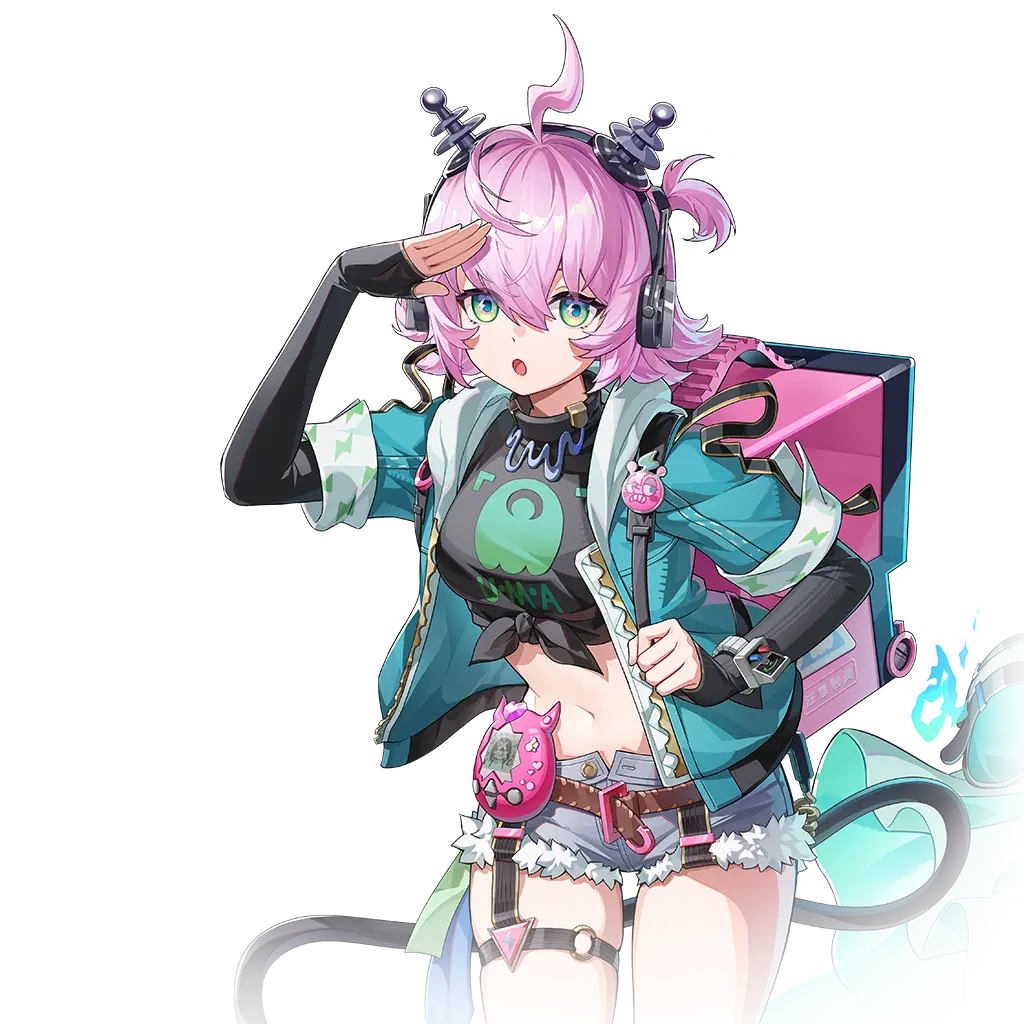
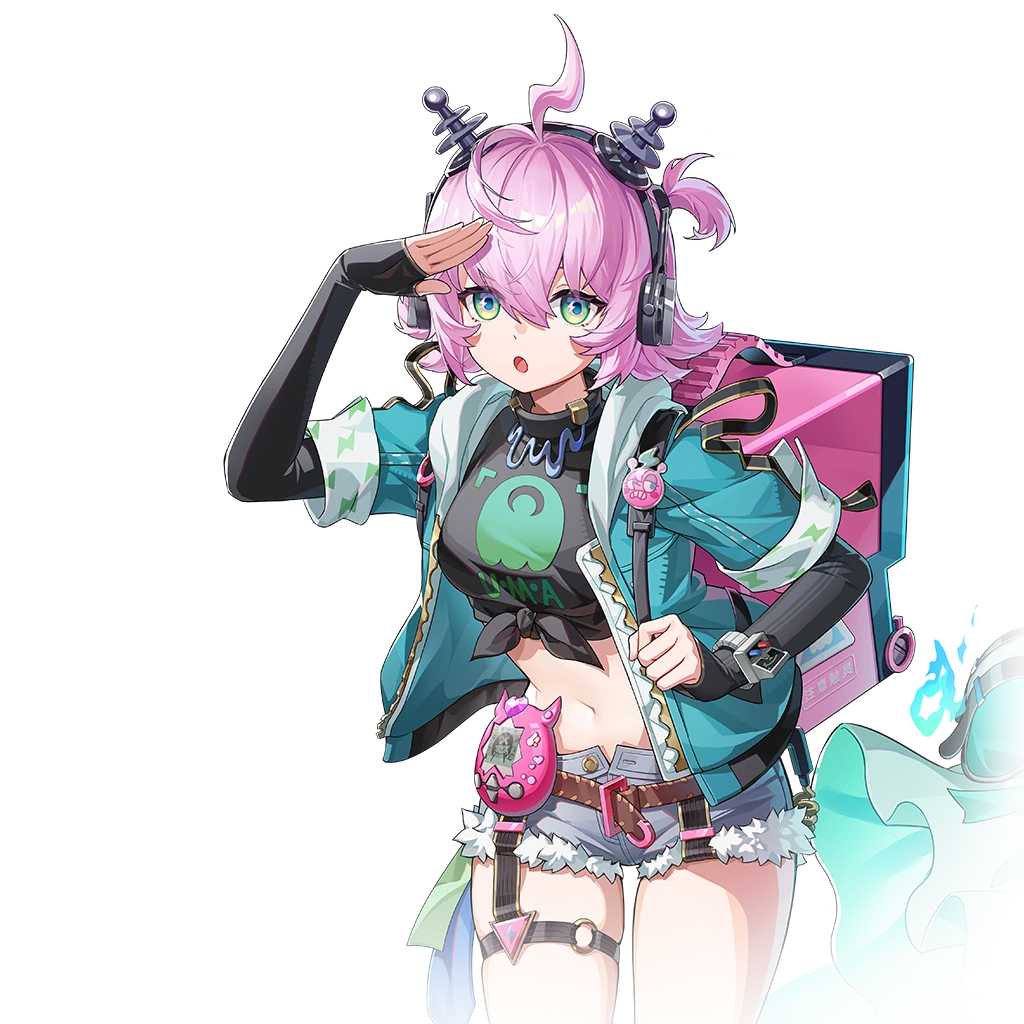
chore(assets): update Lingke portrait from current NTEData

Changed region(s): [[0.2188, 0.0, 1.0, 1.0]]

diff --git a/app/modules/card_game/static/js/v2_api.js b/app/modules/card_game/static/js/v2_api.js
@@ -42,7 +42,7 @@
     Q07: { characterId: 'xiaozhi', fashion: 'Fashion_1073_1' },
     Q08: { characterId: 'xiaozhi', fashion: 'Fashion_1073_nighty' },
   };
-  const CHARACTER_IMAGE_VERSION = 'everness-restored-costumes-v4';
+  const CHARACTER_IMAGE_VERSION = 'ntedata-lingke-20261008-v5';
 
   // Server-provided identity/assets are authoritative; the static table only
   // supports old snapshots. Do not cache mutable combat stats across sides.

diff --git a/docs/character-image-assets.md b/docs/character-image-assets.md
@@ -153,3 +153,12 @@ with Image.open('/tmp/nte-character-source.png') as source:
 使用的内置工具提示词：
 
 > Use case: background-extraction. Edit target: supplied NTEData UI_YH_Archive_FileImages_50.png. Asset: transparent character cutout for the 鬼郎丸 card portrait in a game. Extract ONLY the existing black dog-like creature with red ears, red long tongue, red curled wrapping/tail and the long attached dark staff/pole extending to bottom left. Preserve the original creature identity, pose, proportions, facial features, colors, flat illustrated rendering and all visible subject details exactly. Remove the cream paper, cyan and gray printed bands, all text, white card border and black outside frame completely. Preserve clean anti-aliased original subject edges with actual transparent alpha everywhere else. Keep the entire visible subject and attached staff within the canvas, centered with modest transparent margins, without adding or inventing missing details. Do not redraw or restyle, no text, no shadow, no new backdrop.
+
+
+## 灵可默认立绘更新（2026-10-08）
+
+用户指定将保留的旧默认立绘更新为 NTEData 当前修订图，继续使用 WebP。核对 NTEData 最新提交 `d7fe705451f189cec8447d876e6c31db7ed3d9df` 与 Nanoka NTE `1.4.6` 角色 `1072`：`icon_gacha` 对应 `YH_lihui_fashionshop_lingke`，默认服装为 `Fashion_1072_0`「电波未达」。本次采用 [NTEData 默认造型原图](https://github.com/mc-ctrl/NTEData/blob/d7fe705451f189cec8447d876e6c31db7ed3d9df/UI/UI/Appearance/Fashion/1024/YH_lihui_fashionshop_lingke.png)，不是编号 `lingke1`–`lingke3` 的额外时装。
+
[1 lines of base64/hex data omitted]
+
+与旧图对照，姿势、角色占比和头部位置接近，采用上游修订后的脸部、发丝及服装细节。头像、武备时装和角色可见权限保持原设置；V2 图片缓存版本同步更新。上文旧版恢复记录保留当时状态，灵可默认立绘的当前来源以本节为准。
